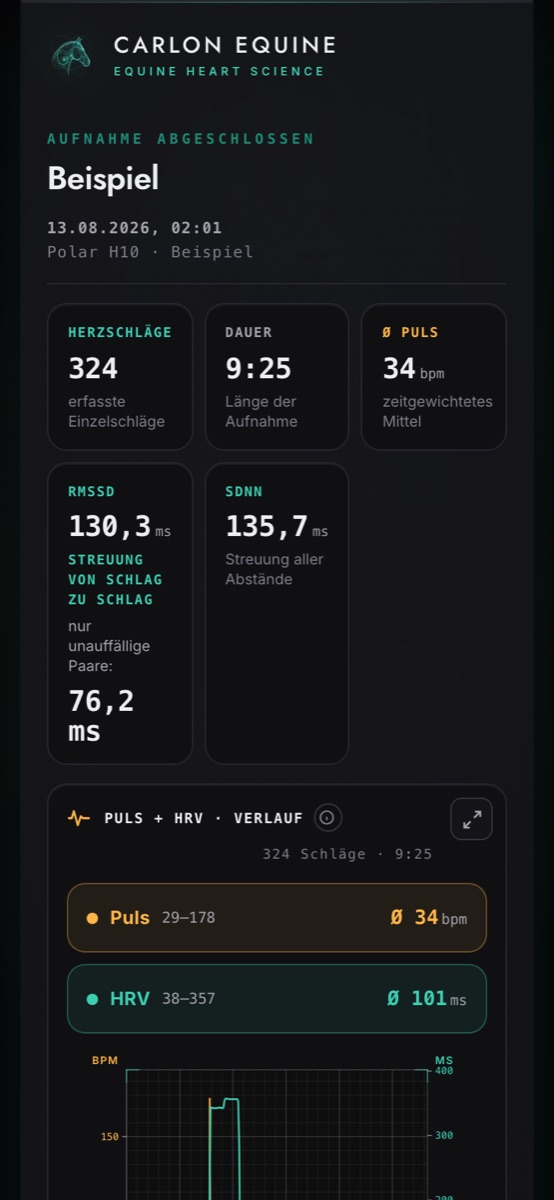
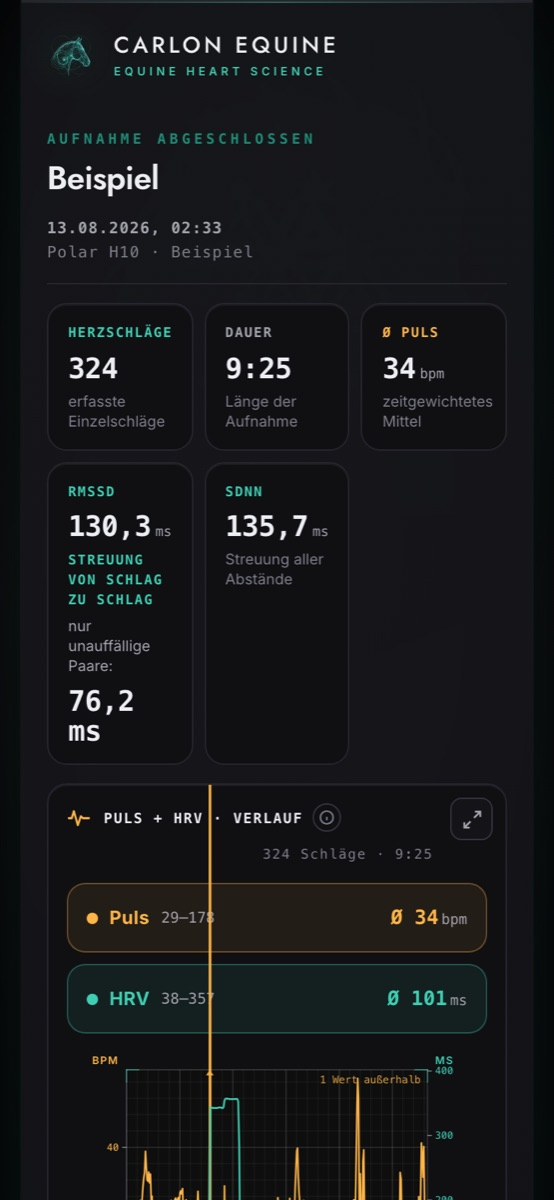
Robuste Achsen in der Messstation — die kanonische Fassung des Cockpits portiert
Ein EINZELNER Artefakt-Schlag zog die Achse ueber den gesamten
Wertebereich. An der echten Aufnahme (Testpferd 2, 325 Schlaege) lief die
Puls-Achse von 8 bis 198 bpm, obwohl das Tier fast die ganze Zeit
zwischen 32 und 40 lag: der nutzbare Anteil der Zeichenflaeche war
2,7 %. Die Grafik war formal korrekt und praktisch blind — und das trifft
nicht ein Verkaufsbild, sondern JEDE Aufnahme, die eine Tieraerztin
ansieht. Niemand merkt es, weil eine gestauchte Kurve immer noch wie eine
Kurve aussieht.

Nach der Umstellung: Achse 29-45 bpm, nutzbarer Anteil 32,3 % — mehr als
das Zehnfache, bei EINEM gekappten Schlag von 325 (0,3 %).

NICHT NACHGEBAUT, PORTIERT. Meine erste Fassung war eine eigene Variante
derselben Idee — und genau daraus entsteht der Schaden: zwei Rechenwege
fuer dieselbe Frage laufen auseinander, und es faellt erst auf, wenn
Station und Cockpit ueber derselben Aufnahme verschiedene Achsen zeigen.
Das Cockpit hatte `_robustRange` und `_clipNote` laengst, samt derselben
Lehre im Kommentar ("die Grafik war formal korrekt und praktisch blind").
Jetzt dieselbe Funktion, dieselben Voreinstellungen, derselbe Name.

DAS KRITERIUM IST DAUER, NICHT WERT. Ein Wert, der fast keine Zeit
einnimmt, darf die Achse nicht bestimmen — genau das leisten Perzentile.
Ein echter Ausflug ueber vierzig Schlaege (das Pferd tritt um) ueberlebt
und bleibt sichtbar; ein Ausreisser ueber zwei nicht. Eine Regel ueber den
[…]

diff --git a/carlon-equine/app/messen.html b/carlon-equine/app/messen.html
@@ -804,7 +804,20 @@ const HAUS={ appImStore:false, appUrl:'https://carlon.app' };
       <svg viewBox="0 0 24 24" fill="none" stroke="currentColor" stroke-width="2" stroke-linecap="round" stroke-linejoin="round"><path d="M10 13a5 5 0 007.5.5l3-3a5 5 0 00-7-7l-1.7 1.7"/><path d="M14 11a5 5 0 00-7.5-.5l-3 3a5 5 0 007 7l1.7-1.7"/></svg>
       <span id="btnSendLinkTxt">Link an ein messendes Gerät senden</span>
     </button>
+    <!-- 2026-08-13 VOM WEG GENOMMEN, nicht geloescht.
+         Dieser Knopf fuehrte auf senden.html. Die Seite verspricht dort eine
+         "Direkt-Uebertragung, ohne Umweg ueber einen Server" und ruft
+         P2P.send() auf — dessen Relay zeigt jedoch auf
+         wss://carlon-signaling.example.workers.dev, einen PLATZHALTER. Der
+         Weg funktioniert also nicht, und er lag auf dem Hauptweg: messen,
+         dann "Datei senden" tippen.
+         Der Dateiweg-Umbau vom 13.08. hat senden.html nicht erfasst.
+         Ein Link auf eine kaputte Funktion ist schlechter als kein Link.
+         WIEDER EINHAENGEN, sobald senden.html auf den Dateiweg umgebaut ist:
+         Datei waehlen -> gegen den Praxis-Schluessel verschluesseln ->
+         navigator.share, genau wie es btnSend hier schon tut.
     <div class="subactions"><a class="btn ghost" href="senden.html" data-i18n="sendFile">Aufnahme als Datei senden</a></div>
+    -->
     <div class="share-note" id="linkNote" style="color:var(--cyan)"></div>
 
     <!-- ── Der kuerzeste Weg auf das zweite Geraet ──────────────────────
@@ -1324,7 +1337,6 @@ de:{
     Formulierung auf reine Datenerfassung verengt. Nicht ohne erneute Prüfung ändern. */
  footerNote:'Diese Seite zeichnet Herzschlag-Daten deines Pferds auf — die medizinische Beurteilung erfolgt ausschließlich durch deine Tierärztin oder deinen Tierarzt.',
  disclaimer:'Kein Medizinprodukt, keine Diagnose.',
- privacy:'Direkt-Übertragung · kein Server sieht die Messwerte',
  /* Vollbild */
  zFit:'Anpassen', zWhole:'Ganze Aufnahme',
  zHintV:'Zwei Finger spreizen zum Zoomen, wischen zum Schieben',
@@ -1694,13 +1706,85 @@ const Chart={
   /* Nur Flaechenverlaeufe, KEIN Linien-Glow: eine weichgezeichnete Linie
      wirkt wattig. Praezision entsteht durch eine harte Kante — die Tiefe
      kommt aus dem Verlauf unter der Kurve. */
-  _defs(id){
+  _defs(id, clip){
     return `<defs>
       <linearGradient id="ar-${id}" x1="0" y1="0" x2="0" y2="1">
         <stop offset="0" stop-color="var(--cyan)" stop-opacity=".26"/>
         <stop offset="1" stop-color="var(--cyan)" stop-opacity="0"/>
-      </linearGradient>
+      </linearGradient>${clip
+        ? `<clipPath id="cl-${id}"><rect x="${clip.x}" y="${clip.y}" width="${clip.w.toFixed(1)}" height="${clip.h.toFixed(1)}" rx="8"/></clipPath>`
+        : ''}
     </defs>`;
+  },
+
+  /* ── ROBUSTER ACHSENBEREICH — 1:1 aus dem Praxis-Cockpit portiert ─────
+     ⚠ NICHT NACHGEBAUT, PORTIERT. Meine erste Fassung war eine eigene
+       Variante derselben Idee — und genau daraus entsteht der Schaden, den
+       diese Datei an anderer Stelle schon einmal hatte: zwei Rechenwege fuer
+       dieselbe Frage laufen auseinander, und es faellt erst auf, wenn
+       Station und Cockpit ueber derselben Aufnahme verschiedene Achsen
+       zeigen. Dieselben Voreinstellungen, derselben Rueckgabe, derselbe
+       Name. `t-achse` laeuft auf BEIDEN Seiten und vergleicht die
+       Ergebnisse.
+
+     WOZU (Begruendung des Cockpits, hier gueltig geblieben):
+     An der echten 1h47-Aufnahme sichtbar geworden — einzelne Ausreisser
+     zogen die Achse so weit auf, dass das eigentliche Signal in einem Band
+     von wenigen Pixeln lag. Die Grafik war formal korrekt und praktisch
+     blind. Der Bereich folgt deshalb den Perzentilen statt Minimum und
+     Maximum.
+
+     WICHTIG: Ausreisser werden dadurch NICHT unsichtbar. Sie werden am Rand
+     gekappt gezeichnet und gezaehlt; die aufrufende Grafik weist sie aus.
+     Beim Pferd kann ein Ausreisser eine physiologische AV-Block-Pause sein —
+     etwas, das man sehen koennen muss, nicht etwas, das man wegskaliert.
+
+     WARUM ES KEINE FEHLALARME GIBT: der Rand (`pad`) wird NACH dem Trimmen
+     aufgeschlagen. Bei einer sauberen Reihe holt er die knapp getrimmten
+     Werte wieder herein, `clipped` bleibt 0 und es erscheint kein Hinweis.
+     Eine Anzeige, die staendig Ausreisser meldet, wo keine sind, wird nicht
+     geglaubt, wenn es einmal darauf ankommt. */
+  _robustRange(vals,{lo=0.005,hi=0.995,pad=0.08,minSpan=1}={}){
+    const n=vals.length;
+    if(!n) return {min:0,max:1,clipped:0};
+    const s=Float64Array.from(vals).sort();
+    const at=q=>s[Math.max(0,Math.min(n-1,Math.round(q*(n-1))))];
+    let a=at(lo), b=at(hi);
+    // Zu wenige Punkte fuer sinnvolle Perzentile → volle Spanne
+    if(n<40){ a=s[0]; b=s[n-1]; }
+    if(b-a<minSpan){ const m=(a+b)/2; a=m-minSpan/2; b=m+minSpan/2; }
+    const p=(b-a)*pad; a-=p; b+=p;
+    let clipped=0; for(let i=0;i<n;i++) if(vals[i]<a||vals[i]>b) clipped++;
+    return {min:a,max:b,clipped};
+  },
+
+  /* HINWEIS AM RAND — 1:1 aus dem Cockpit portiert.
+     ⚠ MEIN ERSTER VERSUCH HAENGTE IHN AN DIE ZEITACHSEN-BESCHRIFTUNG. Auf dem
+       Telefon ist die aber schon ohne Zusatz abgeschnitten („…VON 30 SCHLÄG");
+       der Hinweis waere also genau dort unsichtbar gewesen, wo er zaehlt — auf
+       dem Geraet, mit dem gemessen wird. Eine Zusage, die nur auf dem
+       Schreibtisch lesbar ist, ist keine.
+     Jetzt steht er eigenstaendig oben rechts IM Diagramm, wo nichts ihn
+     abschneidet. Ohne diesen Hinweis waere die Achsenwahl eine stille
+     Behauptung. */
+  _clipNote(x,y,n){
+    if(!n) return '';
+    return `<text x="${x.toFixed(1)}" y="${y.toFixed(1)}" text-anchor="end" style="fill:var(--amber);font-family:var(--font-mono);font-size:9.5px;opacity:.85">${n} ${n===1?'Wert':'Werte'} außerhalb</text>`;
+  },
+
+  /* Die Marken an der Kante. Sie sitzen dort, wo der Wert die Zeitachse
+     kreuzt — nicht am Rand gesammelt: so bleibt ablesbar, WANN es passiert
+     ist, und das ist die Auskunft, die eine Tieraerztin braucht. */
+  _kappmarken(punkte, xVon, yOben, yUnten, farbe){
+    let g='', gezeigt=0;
+    for(const {x,ueber} of punkte){
+      if(gezeigt++>=40) break;                 // ein Wald aus Marken sagt nichts mehr
+      const y = ueber ? yOben+3.5 : yUnten-3.5;
+      const d = ueber ? `M${x.toFixed(1)},${(y-3.5).toFixed(1)} l3.6,5.2 l-7.2,0 Z`
+                      : `M${x.toFixed(1)},${(y+3.5).toFixed(1)} l3.6,-5.2 l-7.2,0 Z`;
+      g+=`<path d="${d}" fill="${farbe}" fill-opacity=".85"/>`;
+    }
+    return g;
   },
 
   /* ZEICHEN-AUSDUENNUNG (min/max je Pixelspalte).
@@ -1736,9 +1820,16 @@ const Chart={
   tachogram(rr,{w=720,h=230,xlabel='SCHLAG-NR.'}={}){
     if(!rr||rr.length<2) return '';
     const pad={l:52,r:16,t:14,b:32}, n=rr.length;
-    let mn=Math.min(...rr), mx=Math.max(...rr); const pd=(mx-mn)*0.08||10; mn-=pd; mx+=pd;
+    const uid=Math.round(w*7+h+11);
+    /* Robuste Grenzen statt min/max — siehe Chart._robust. Beim Tachogramm
+       faellt es besonders auf: ein einziger halbierter Abstand (T-Welle als
+       Schlag gezaehlt) zog die Achse bis 500 ms hinunter, waehrend die Reihe
+       zwischen 1500 und 2100 lag. Zwei Drittel der Hoehe blieben leer. */
+    const rT=Chart._robustRange(rr,{pad:0.08,minSpan:40});
+    const mn=rT.min, mx=rT.max;
     const X=i=>pad.l+i/(n-1)*(w-pad.l-pad.r), Y=v=>pad.t+(1-(v-mn)/(mx-mn))*(h-pad.t-pad.b);
-    let g=`<rect x="${pad.l}" y="${pad.t}" width="${(w-pad.l-pad.r).toFixed(1)}" height="${(h-pad.t-pad.b).toFixed(1)}" rx="8" class="plotbg" fill="#0E0E0E"/>`;
+    let g=Chart._defs(uid,{x:pad.l,y:pad.t,w:(w-pad.l-pad.r),h:(h-pad.t-pad.b)})
+      +`<rect x="${pad.l}" y="${pad.t}" width="${(w-pad.l-pad.r).toFixed(1)}" height="${(h-pad.t-pad.b).toFixed(1)}" rx="8" class="plotbg" fill="#0E0E0E"/>`;
     const yt=Chart.niceTicks(mn,mx,5), ys=yt.length>1?yt[1]-yt[0]:100;
     for(let v=yt[0]-ys;v<=mx+ys;v+=ys/5){ if(v<mn||v>mx)continue;
       const maj=yt.some(t=>Math.abs(t-v)<ys*0.05);
@@ -1754,16 +1845,21 @@ const Chart={
     const mv=rr.reduce((a,b)=>a+b,0)/n;
     g+=`<line x1="${pad.l}" x2="${w-pad.r}" y1="${Y(mv).toFixed(1)}" y2="${Y(mv).toFixed(1)}" stroke="var(--sec)" stroke-width="1" stroke-dasharray="4 4" opacity=".45"/>`;
     const dec=Chart._decimate(rr,Math.round(w-pad.l-pad.r));
-    g+=`<path d="${dec.map(([i,v],k)=>`${k?'L':'M'}${X(i).toFixed(1)},${Y(v).toFixed(1)}`).join(' ')}" fill="none" stroke="var(--cyan)" stroke-width="1.5" stroke-linejoin="round" stroke-linecap="round"/>`;
+    g+=`<g clip-path="url(#cl-${uid})"><path d="${dec.map(([i,v],k)=>`${k?'L':'M'}${X(i).toFixed(1)},${Y(v).toFixed(1)}`).join(' ')}" fill="none" stroke="var(--cyan)" stroke-width="1.5" stroke-linejoin="round" stroke-linecap="round"/></g>`;
+    if(rT.clipped) g+=Chart._kappmarken(
+      dec.filter(([i,v])=>v<mn||v>mx).map(([i,v])=>({x:X(i), ueber:v>mx})),
+      0, pad.t, h-pad.b, 'var(--cyan)');
     g+=`<rect x="${pad.l}" y="${pad.t}" width="${(w-pad.l-pad.r).toFixed(1)}" height="${(h-pad.t-pad.b).toFixed(1)}" class="axis"/>`;
     const my=pad.t+(h-pad.t-pad.b)/2;
     g+=`<text x="12" y="${my.toFixed(0)}" transform="rotate(-90 12 ${my.toFixed(0)})" text-anchor="middle" class="label-axis">RR-INTERVALL<tspan class="label-unit"> (ms)</tspan></text>`;
+    g+=Chart._clipNote(w-pad.r-6, pad.t+12, rT.clipped);
     g+=`<text x="${(pad.l+(w-pad.l-pad.r)/2).toFixed(0)}" y="${h-2}" text-anchor="middle" class="label-axis">${xlabel}</text>`;
     Chart._axis={h, padL:pad.l, padR:pad.r, unitL:'MS', unitR:null,
       left: yt.filter(q=>q>=mn&&q<=mx).map(q=>({y:+Y(q).toFixed(1),txt:fmt0(q),col:'var(--cyan)'})), right:[]};
     const pts=dec.map(([i,v])=>({x:+X(i).toFixed(1),y:+Y(v).toFixed(1),i,rr:Math.round(v),hr:Math.round(60000/v)}));
     const alt=`Verlauf der Herzschlag-Abstände über ${fmt0(n)} Schläge, `
-      +`von ${fmt0(Math.min(...rr))} bis ${fmt0(Math.max(...rr))} Millisekunden.`;
+      +`von ${fmt0(Math.min(...rr))} bis ${fmt0(Math.max(...rr))} Millisekunden.`
+      +(rT.clipped?` ${rT.clipped} Wert${rT.clipped===1?'':'e'} liegen außerhalb der gezeigten Achse und sind am Rand markiert.`:'');
     return Chart._hov(g,w,h,pts,'seq','',alt);
   },
 
@@ -1800,12 +1896,16 @@ const Chart={
     const pad={l:54,r:54,t:16,b:46};
     const plotW=w-pad.l-pad.r, plotH=h-pad.t-pad.b, pB=h-pad.b;
     const X=tt=>pad.l+(tt/T)*plotW;
-    const rng=a=>{ let mn=Math.min(...a),mx=Math.max(...a); const pd=(mx-mn)*0.14||1; return [mn-pd,mx+pd]; };
-    const [hLo,hHi]=rng(hf), [vLo,vHi]=rng(all.slice(i0));
+    /* Robust statt min/max — siehe Chart._robust. Ein einzelner Artefakt darf
+       die Achse nicht bestimmen; ein echter Ausflug ueber viele Schlaege
+       schon. */
+    const rH=Chart._robustRange(hf,{pad:0.14,minSpan:8});
+    const rV=Chart._robustRange(all.slice(i0),{pad:0.14,minSpan:4});
+    const hLo=rH.min, hHi=rH.max, vLo=rV.min, vHi=rV.max;
     const YH=v=>pad.t+(1-(v-hLo)/(hHi-hLo))*plotH;
     const YV=v=>pad.t+(1-(v-vLo)/(vHi-vLo))*plotH;
 
-    let g=Chart._defs(uid)
+    let g=Chart._defs(uid,{x:pad.l,y:pad.t,w:plotW,h:plotH})
       +`<rect x="${pad.l}" y="${pad.t}" width="${plotW.toFixed(1)}" height="${plotH.toFixed(1)}" rx="8" class="plotbg" fill="#0E0E0E"/>`;
     // Waagerechtes Raster nach der Puls-Achse, damit nur EIN Raster entsteht
     const ht=Chart.niceTicks(hLo,hHi,5), hs=ht.length>1?ht[1]-ht[0]:10;
@@ -1843,10 +1943,24 @@ const Chart={
     const decHV=Chart._decimate(hvSlice,cols);
     const decHF=Chart._decimate(hf,cols);
     const dHV=decHV.map(([i,v],k)=>`${k?'L':'M'}${X(tAll[i0+i]).toFixed(1)},${YV(v).toFixed(1)}`).join(' ');
-    g+=`<path d="${dHV} L${X(T).toFixed(1)},${pB.toFixed(1)} L${X(tAll[i0]).toFixed(1)},${pB.toFixed(1)} Z" fill="url(#ar-${uid})" stroke="none"/>`;
     const dHF=decHF.map(([i,v],k)=>`${k?'L':'M'}${X(tAll[i]).toFixed(1)},${YH(v).toFixed(1)}`).join(' ');
-    g+=`<path class="${anim?'draw':''}" pathLength="1" d="${dHF}" fill="none" stroke="var(--amber)" stroke-width="1.5" stroke-linejoin="round" stroke-linecap="round"/>`;
-    g+=`<path class="${anim?'draw d2':''}" pathLength="1" d="${dHV}" fill="none" stroke="var(--cyan)" stroke-width="1.6" stroke-linejoin="round" stroke-linecap="round"/>`;
+    /* BESCHNITTEN AUF DIE ZEICHENFLAECHE. Ohne das liefe die Kurve eines
+       gekappten Wertes ueber die Achsenbeschriftung und den Rand hinaus —
+       und saehe aus wie ein Zeichenfehler statt wie ein Ausreisser. */
+    g+=`<g clip-path="url(#cl-${uid})">`
+      +`<path d="${dHV} L${X(T).toFixed(1)},${pB.toFixed(1)} L${X(tAll[i0]).toFixed(1)},${pB.toFixed(1)} Z" fill="url(#ar-${uid})" stroke="none"/>`
+      +`<path class="${anim?'draw':''}" pathLength="1" d="${dHF}" fill="none" stroke="var(--amber)" stroke-width="1.5" stroke-linejoin="round" stroke-linecap="round"/>`
+      +`<path class="${anim?'draw d2':''}" pathLength="1" d="${dHV}" fill="none" stroke="var(--cyan)" stroke-width="1.6" stroke-linejoin="round" stroke-linecap="round"/>`
+      +`</g>`;
+
+    /* Wo etwas ueber die Kante lief, steht eine Marke — an der Stelle der
+       ZEIT, an der es passiert ist. */
+    if(rH.clipped) g+=Chart._kappmarken(
+      decHF.filter(([i,v])=>v<hLo||v>hHi).map(([i,v])=>({x:X(tAll[i]), ueber:v>hHi})),
+      0, pad.t, pB, 'var(--amber)');
+    if(rV.clipped) g+=Chart._kappmarken(
+      decHV.filter(([i,v])=>v<vLo||v>vHi).map(([i,v])=>({x:X(tAll[i0+i]), ueber:v>vHi})),
+      0, pad.t, pB, 'var(--cyan)');
 
     g+=`<rect x="${pad.l}" y="${pad.t}" width="${plotW.toFixed(1)}" height="${plotH.toFixed(1)}" class="axis"/>`;
     g+=Chart._bezel(pad.l,pad.t,plotW,plotH);
@@ -1859,6 +1973,12 @@ const Chart={
     // Einheiten stehen oben an ihrer Achse — kurz, waagerecht, sofort lesbar
     g+=`<text x="${pad.l-7}" y="${(pad.t-5).toFixed(0)}" text-anchor="end" class="label-axis" style="fill:var(--amber)">BPM</text>`;
     g+=`<text x="${(w-pad.r+7).toFixed(0)}" y="${(pad.t-5).toFixed(0)}" text-anchor="start" class="label-axis" style="fill:var(--cyan)">MS</text>`;
+    /* Die Zahl der gekappten Werte steht AN DER ACHSE, nicht in einer
+       Fussnote: wer die Kurve liest, muss sofort wissen, dass etwas
+       ausserhalb liegt — sonst haelt er den gekappten Verlauf fuer den
+       ganzen. */
+    const kapp=rH.clipped+rV.clipped;
+    g+=Chart._clipNote(w-pad.r-6, pad.t+12, kapp);
     g+=`<text x="${pad.l}" y="${h-4}" text-anchor="start" class="label-axis">ZEIT<tspan class="label-unit"> (MM:SS) · HRV IM GLEITENDEN FENSTER VON ${Wb} SCHLÄGEN</tspan></text>`;
 
     /* Endwert-Marken wie in der App: der letzte Wert steht als Plakette am
@@ -1889,9 +2009,13 @@ const Chart={
     const pts=decHF.map(([i,v])=>({x:+X(tAll[i]).toFixed(1),y:+YH(v).toFixed(1),
       y2:(i>=i0?+YV(all[i]).toFixed(1):null), i, tt:ms(tAll[i]),
       hr:Math.round(v), hv:(i>=i0?Math.round(all[i]*10)/10:null)}));
+    /* Die Bildbeschreibung nennt die ECHTE Spanne der Messung, nicht die der
+       Achse. Wer nur zuhört, bekaeme sonst einen beschnittenen Bericht — und
+       genau das waere die stille Faelschung, die das Kappen vermeiden soll. */
     const alt=`Puls und Herzratenvariabilität über ${ms(T)} Aufnahmedauer. `
       +`Puls ${fmt0(Math.min(...hf))} bis ${fmt0(Math.max(...hf))} Schläge pro Minute, `
-      +`HRV ${fmt0(Math.min(...hvSlice))} bis ${fmt0(Math.max(...hvSlice))} Millisekunden.`;
+      +`HRV ${fmt0(Math.min(...hvSlice))} bis ${fmt0(Math.max(...hvSlice))} Millisekunden.`
+      +(kapp?` ${kapp} Wert${kapp===1?'':'e'} liegen außerhalb der gezeigten Achse und sind am Rand markiert; die Achse folgt den übrigen, damit der Verlauf lesbar bleibt.`:'');
     return Chart._hov(g,w,h,pts,'vitals','',alt);
   },
 

diff --git a/carlon-equine/app/sw.js b/carlon-equine/app/sw.js
@@ -2,7 +2,7 @@
    App-Shell wird precached; Fonts & Leaflet lokal gebündelt (assets/) — keine externen CDNs,
    sodass die App nach dem ersten Online-Start vollständig offline läuft.
    Gesundheitsdaten liegen in IndexedDB — der SW cached nur Programm-Assets. */
-const VERSION = 'carlon-clinic-687af6fc92';
+const VERSION = 'carlon-clinic-d63244dd71';
 /* ACHTUNG: JEDE Datei in CORE wird ausgeliefert, bis VERSION sich aendert.
    Zweimal in dieser Nacht passiert — einmal beim Livegang-Schalter, einmal bei
    krypto.js: Datei geaendert, Version vergessen, und der Browser lieferte
